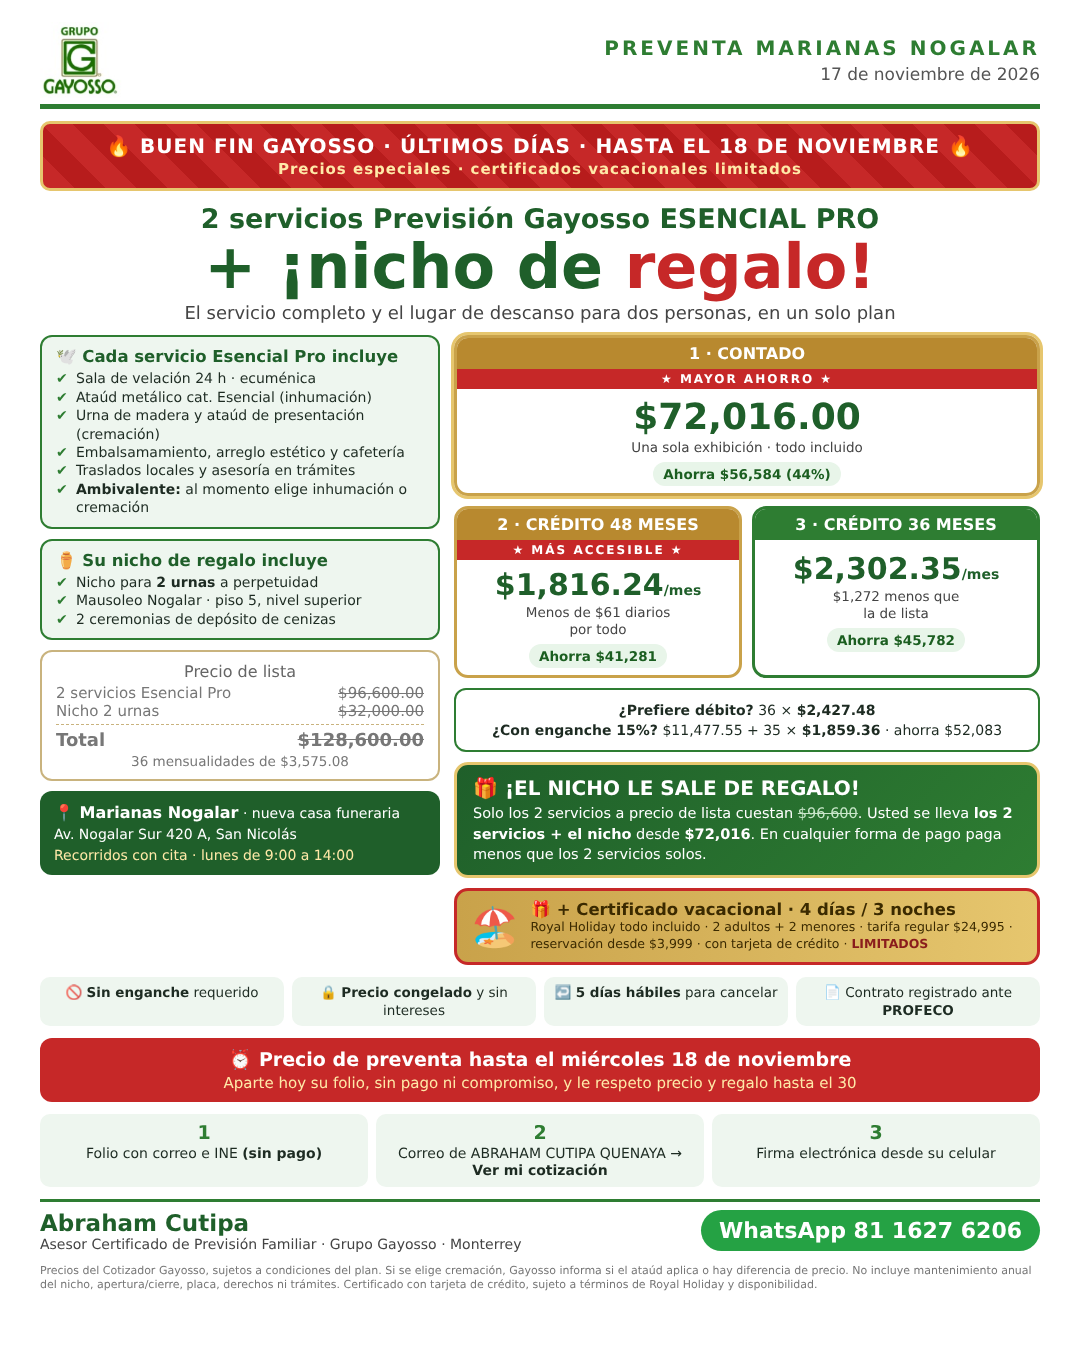
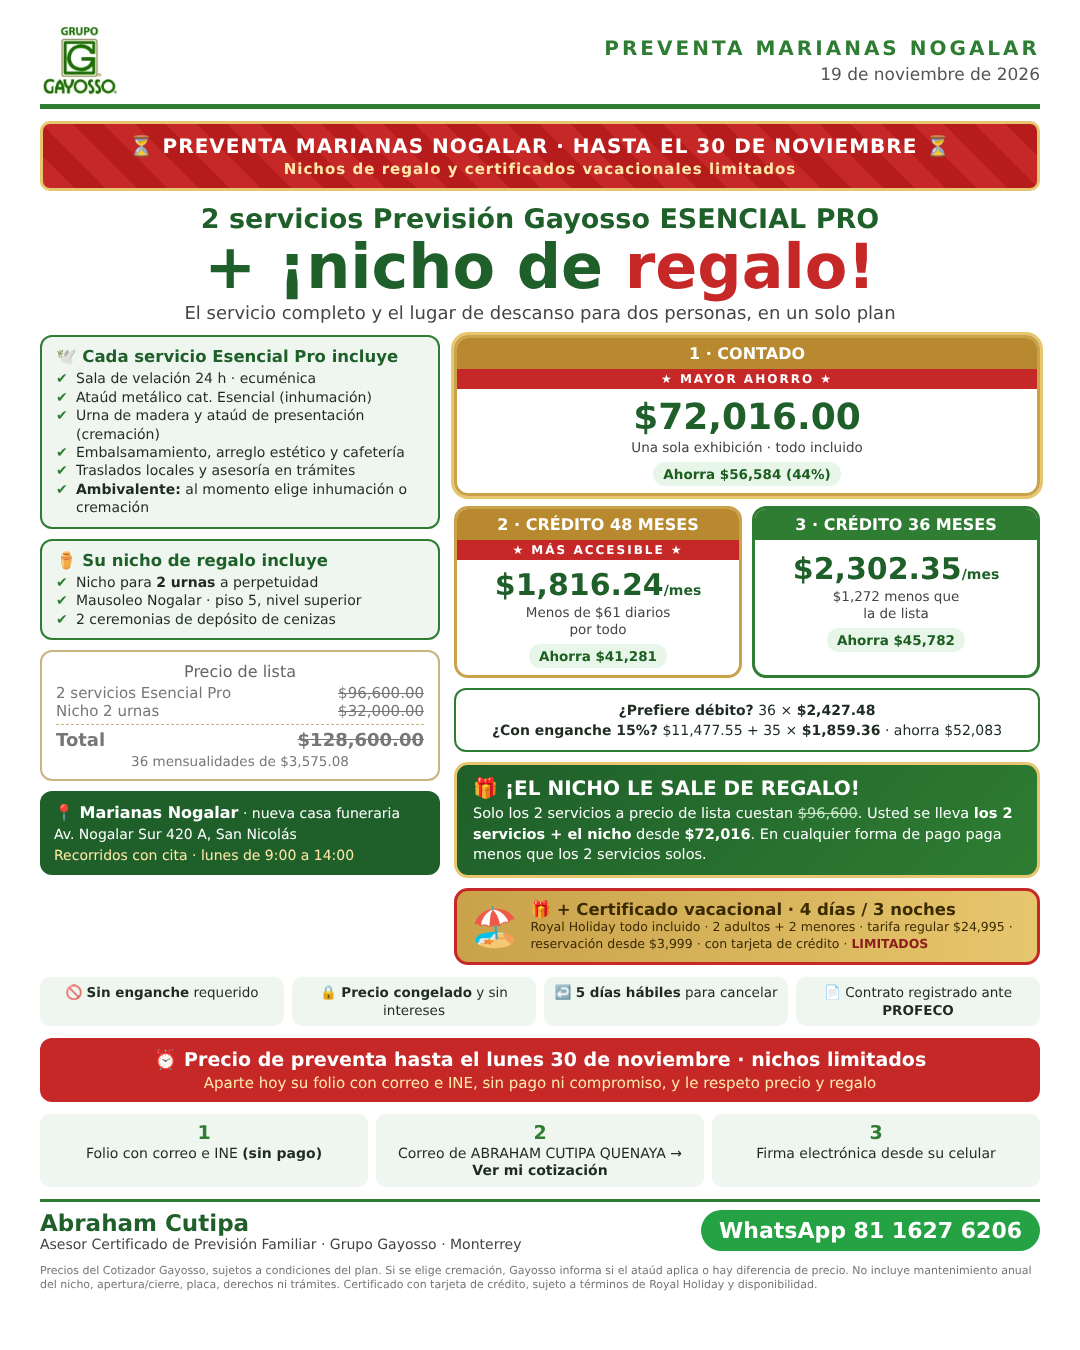
2 Esencial + nicho de regalo Nogalar: vigencia al 30 de noviembre
Claude-Session: https://claude.ai/code/session_01PccRGVGwaaPKDitcWkgoNs

Changed region(s): [[0.0917, 0.0933, 0.9167, 0.1556], [0.1528, 0.7778, 0.8556, 0.8089]]

diff --git a/propuesta/buenfin_esencial2_nicho_regalo.html b/propuesta/buenfin_esencial2_nicho_regalo.html
@@ -54,7 +54,7 @@ body{width:1080px;height:1350px;font-family:"DejaVu Sans",Arial,sans-serif;backg
 .fine{font-size:11px;color:#777;line-height:1.3}
 </style></head><body><div class="wrap">
 <div class="top"><img src="logo.jpg"><div class="r"><div class="k">PREVENTA MARIANAS NOGALAR</div><div class="d">16 de noviembre de 2026</div></div></div>
-<div class="rib">🔥 BUEN FIN GAYOSSO · ÚLTIMOS DÍAS · HASTA EL 18 DE NOVIEMBRE 🔥<small>Precios especiales · certificados vacacionales limitados</small></div>
+<div class="rib">⏳ PREVENTA MARIANAS NOGALAR · HASTA EL 30 DE NOVIEMBRE ⏳<small>Nichos de regalo y certificados vacacionales limitados</small></div>
 <div class="hero"><div class="a">2 servicios Previsión Gayosso ESENCIAL PRO</div><div class="b">+ ¡nicho de <span>regalo!</span></div><div class="c">El servicio completo y el lugar de descanso para dos personas, en un solo plan</div></div>
 <div class="main">
  <div class="side">
@@ -88,7 +88,7 @@ body{width:1080px;height:1350px;font-family:"DejaVu Sans",Arial,sans-serif;backg
  </div>
 </div>
 <div class="trust"><div>🚫 <b>Sin enganche</b> requerido</div><div>🔒 <b>Precio congelado</b> y sin intereses</div><div>↩ <b>5 días hábiles</b> para cancelar</div><div>📄 Contrato registrado ante <b>PROFECO</b></div></div>
-<div class="vig">⏰ Precio de preventa hasta el miércoles 18 de noviembre<small>Aparte hoy su folio, sin pago ni compromiso, y le respeto precio y regalo hasta el 30</small></div>
+<div class="vig">⏰ Precio de preventa hasta el lunes 30 de noviembre · nichos limitados<small>Aparte hoy su folio con correo e INE, sin pago ni compromiso, y le respeto precio y regalo</small></div>
 <div class="steps"><div class="st"><b class="n">1</b>Folio con correo e INE <b>(sin pago)</b></div><div class="st"><b class="n">2</b>Correo de ABRAHAM CUTIPA QUENAYA → <b>Ver mi cotización</b></div><div class="st"><b class="n">3</b>Firma electrónica desde su celular</div></div>
 <div class="foot"><div><div class="n">Abraham Cutipa</div><div class="r">Asesor Certificado de Previsión Familiar · Grupo Gayosso · Monterrey</div></div><div class="w">WhatsApp 81 1627 6206</div></div>
 <div class="fine">Precios del Cotizador Gayosso, sujetos a condiciones del plan. Si se elige cremación, Gayosso informa si el ataúd aplica o hay diferencia de precio. No incluye mantenimiento anual del nicho, apertura/cierre, placa, derechos ni trámites. Certificado con tarjeta de crédito, sujeto a términos de Royal Holiday y disponibilidad.</div>
